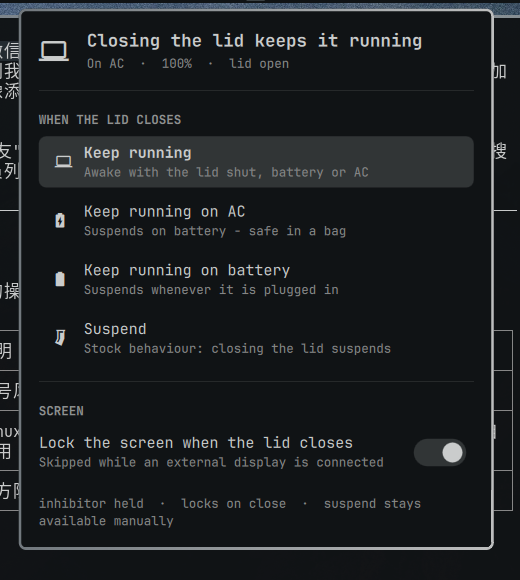
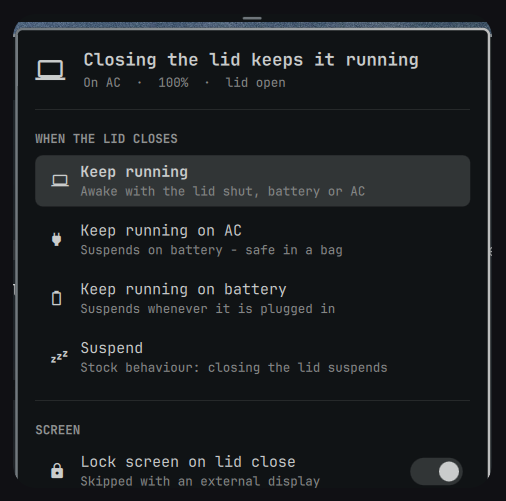
1.0.1: legible outline glyphs, aligned lock row, orphan inhibitor sweep
The filled battery and crossed-out laptop collapsed into blobs at 14 px, so
the mode rows now use the power plug, the outline battery and the "zzz"
sleep symbol, and the bar shows the sleep glyph when the lid will suspend.

The lock-on-close row starts in the same glyph column as the mode rows and
tracks the toggle with a lock/unlock icon.

The cleanup process on load used an anchored pgrep pattern that never matched
/usr/bin/systemd-inhibit, so inhibitors orphaned by a crashed shell survived.
Match with a bracketed pattern (no self-match, same UID only), and stop
inhibiting until that sweep has run.

diff --git a/Panel.qml b/Panel.qml
@@ -91,11 +91,14 @@ Panel {
     return "Stock behaviour: closing the lid suspends"
   }
 
+  // Outline glyphs on purpose: the filled battery () and laptop-off ()
+  // codepoints collapse into unreadable blobs at the row's 14 px, so the rows
+  // use the outline battery and the "zzz" sleep symbol instead.
   function modeGlyph(m) {
     if (m === "awake") return ""
-    if (m === "ac") return ""
-    if (m === "battery") return ""
-    return ""
+    if (m === "ac") return ""
+    if (m === "battery") return ""
+    return ""
   }
 
   function heroTitle() {
@@ -168,12 +171,42 @@ Panel {
 
   // ---------- the inhibitor ----------
 
+  // A crashed shell does not take its children with it: systemd-inhibit survives
+  // reparented to the omarchy-shell wrapper, so the machine would keep believing
+  // the lid may be ignored with nothing on screen to show why. Sweep those
+  // orphans away before starting our own, and only arm the inhibitor after the
+  // sweep so it cannot shoot itself in the foot.
+  property bool cleanupDone: false
+
+  Process {
+    id: staleCleanup
+    // Bracket the first letter so this pattern cannot match the bash -c
+    // command line that contains it (pgrep -f matches the whole argv).
+    command: [
+      "bash", "-c",
+      'for pid in $(pgrep -u "$UID" -f -- "[s]ystemd-inhibit --what=handle-lid-switch --who=Omarchy lid policy"); do '
+        + 'kill -TERM "$pid" 2>/dev/null; '
+        + 'for child in $(pgrep -P "$pid"); do kill -TERM "$child" 2>/dev/null; done; '
+        + 'done; true'
+    ]
+    onExited: root.cleanupDone = true
+  }
+
+  // If the sweep somehow never reports back, stop waiting rather than leave the
+  // machine unable to keep itself awake.
+  Timer {
+    interval: 3000
+    repeat: false
+    running: !root.cleanupDone
+    onTriggered: root.cleanupDone = true
+  }
+
   // systemd-inhibit holds the inhibitor for as long as its child lives, so the
   // child is `sleep infinity` and the Process binding is the switch. Stopping it
   // sends SIGTERM, which drops the inhibitor and hands the lid back to logind.
   Process {
     id: inhibitor
-    running: root.shouldInhibit
+    running: root.shouldInhibit && root.cleanupDone
     command: [
       "systemd-inhibit",
       "--what=handle-lid-switch",
@@ -276,6 +309,7 @@ Panel {
 
   Component.onCompleted: {
     lidProbe.running = true
+    staleCleanup.running = true
     root.refreshPolicy()
   }
 
@@ -312,10 +346,10 @@ Panel {
     id: button
     anchors.fill: parent
     bar: root.bar
-    //  md-laptop while it keeps running,  md-laptop_off when the lid will
+    //  md-laptop while it keeps running,  md-power-sleep when the lid will
     // suspend it. The glyph says what will happen, so the bar is readable
     // without opening the panel.
-    text: root.shouldInhibit ? "" : ""
+    text: root.shouldInhibit ? "" : ""
     active: root.shouldInhibit
     tooltipText: root.barTooltip()
     onPressed: root.toggle()
@@ -350,7 +384,7 @@ Panel {
 
           Text {
             textFormat: Text.PlainText
-            text: root.shouldInhibit ? "" : ""
+            text: root.shouldInhibit ? "" : ""
             color: root.foreground
             font.family: root.bar ? root.bar.fontFamily : Style.font.family
             font.pixelSize: Style.font.display
@@ -431,9 +465,26 @@ Panel {
             implicitHeight: Math.max(lockLabels.implicitHeight, lockSwitch.implicitHeight) + Style.space(6)
             opacity: root.shouldInhibit ? 1.0 : 0.4
 
+            // Same glyph column as the mode rows, so the lock row lines up with
+            // them instead of starting flush against the panel edge.
+            Text {
+              id: lockGlyph
+              textFormat: Text.PlainText
+              text: root.lockOnLid ? "" : ""
+              color: root.foreground
+              font.family: root.bar ? root.bar.fontFamily : Style.font.family
+              font.pixelSize: Style.font.title
+              width: Style.space(22)
+              horizontalAlignment: Text.AlignHCenter
+              anchors.left: parent.left
+              anchors.leftMargin: Style.space(6)
+              anchors.verticalCenter: parent.verticalCenter
+            }
+
             Column {
               id: lockLabels
-              anchors.left: parent.left
+              anchors.left: lockGlyph.right
+              anchors.leftMargin: Style.space(8)
               anchors.right: parent.right
               anchors.rightMargin: lockSwitch.width + Style.space(12)
               anchors.verticalCenter: parent.verticalCenter
@@ -441,7 +492,7 @@ Panel {
 
               Text {
                 textFormat: Text.PlainText
-                text: "Lock the screen when the lid closes"
+                text: "Lock screen on lid close"
                 color: root.foreground
                 font.family: root.bar ? root.bar.fontFamily : Style.font.family
                 font.pixelSize: Style.font.body
@@ -452,7 +503,7 @@ Panel {
               Text {
                 textFormat: Text.PlainText
                 text: root.shouldInhibit
-                  ? "Skipped while an external display is connected"
+                  ? "Skipped with an external display"
                   : "Only applies while the lid keeps it running"
                 color: root.dim
                 font.family: root.bar ? root.bar.fontFamily : Style.font.family

diff --git a/CHANGELOG.md b/CHANGELOG.md
@@ -1,5 +1,16 @@
 # Changelog
 
+## 1.0.1
+
+- Mode rows use outline glyphs (power plug, outline battery, "zzz" sleep) and
+  the bar shows the sleep glyph when the lid will suspend, so the icon reads at
+  14 px instead of collapsing into a filled blob.
+- The lock-on-close row gets the same glyph column as the mode rows and a
+  lock/unlock icon that follows the toggle.
+- On plugin load, sweep away `systemd-inhibit` processes left behind by a
+  crashed shell before starting a new one, so a stale inhibitor cannot silently
+  keep a closed lid awake.
+
 ## 1.0.0
 
 - Bar widget and panel to choose what closing the lid does: keep running on
